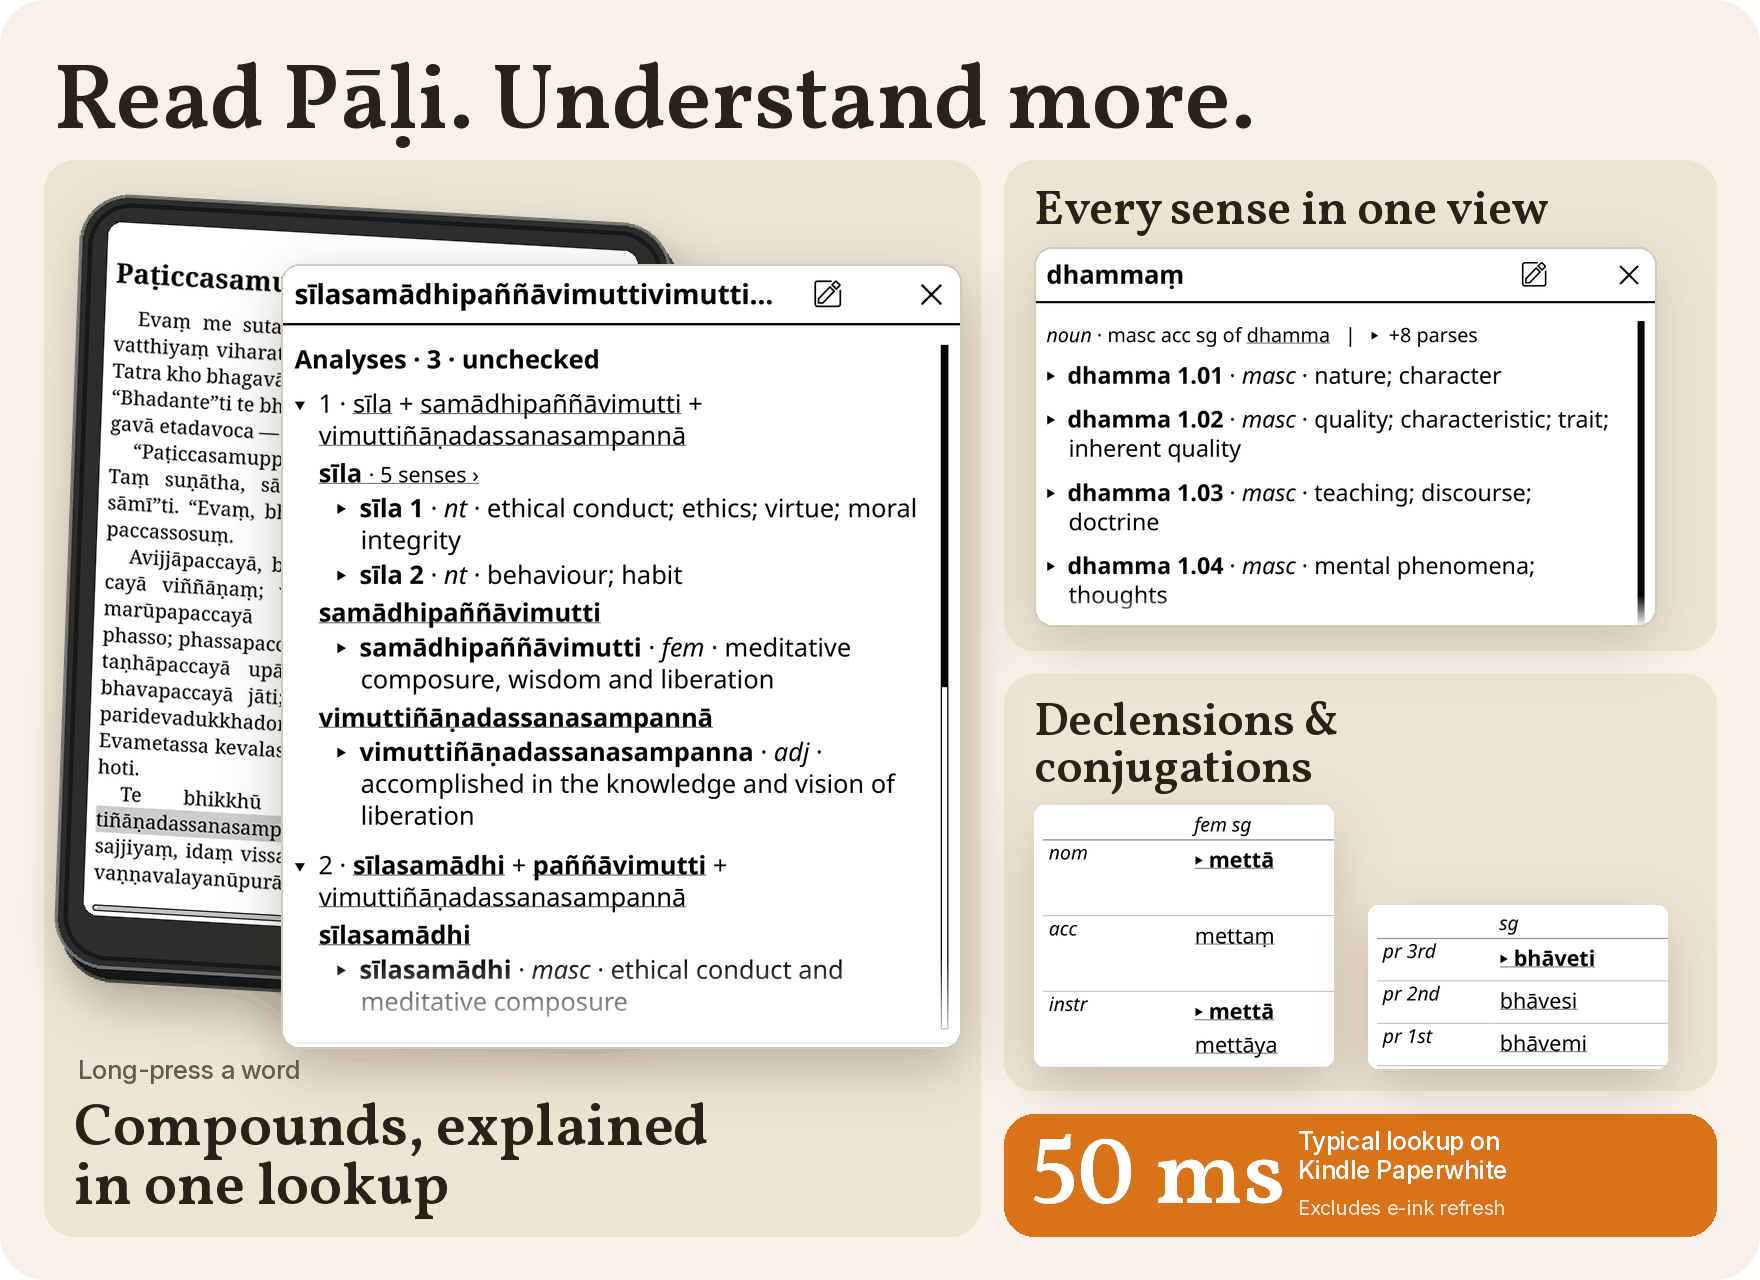
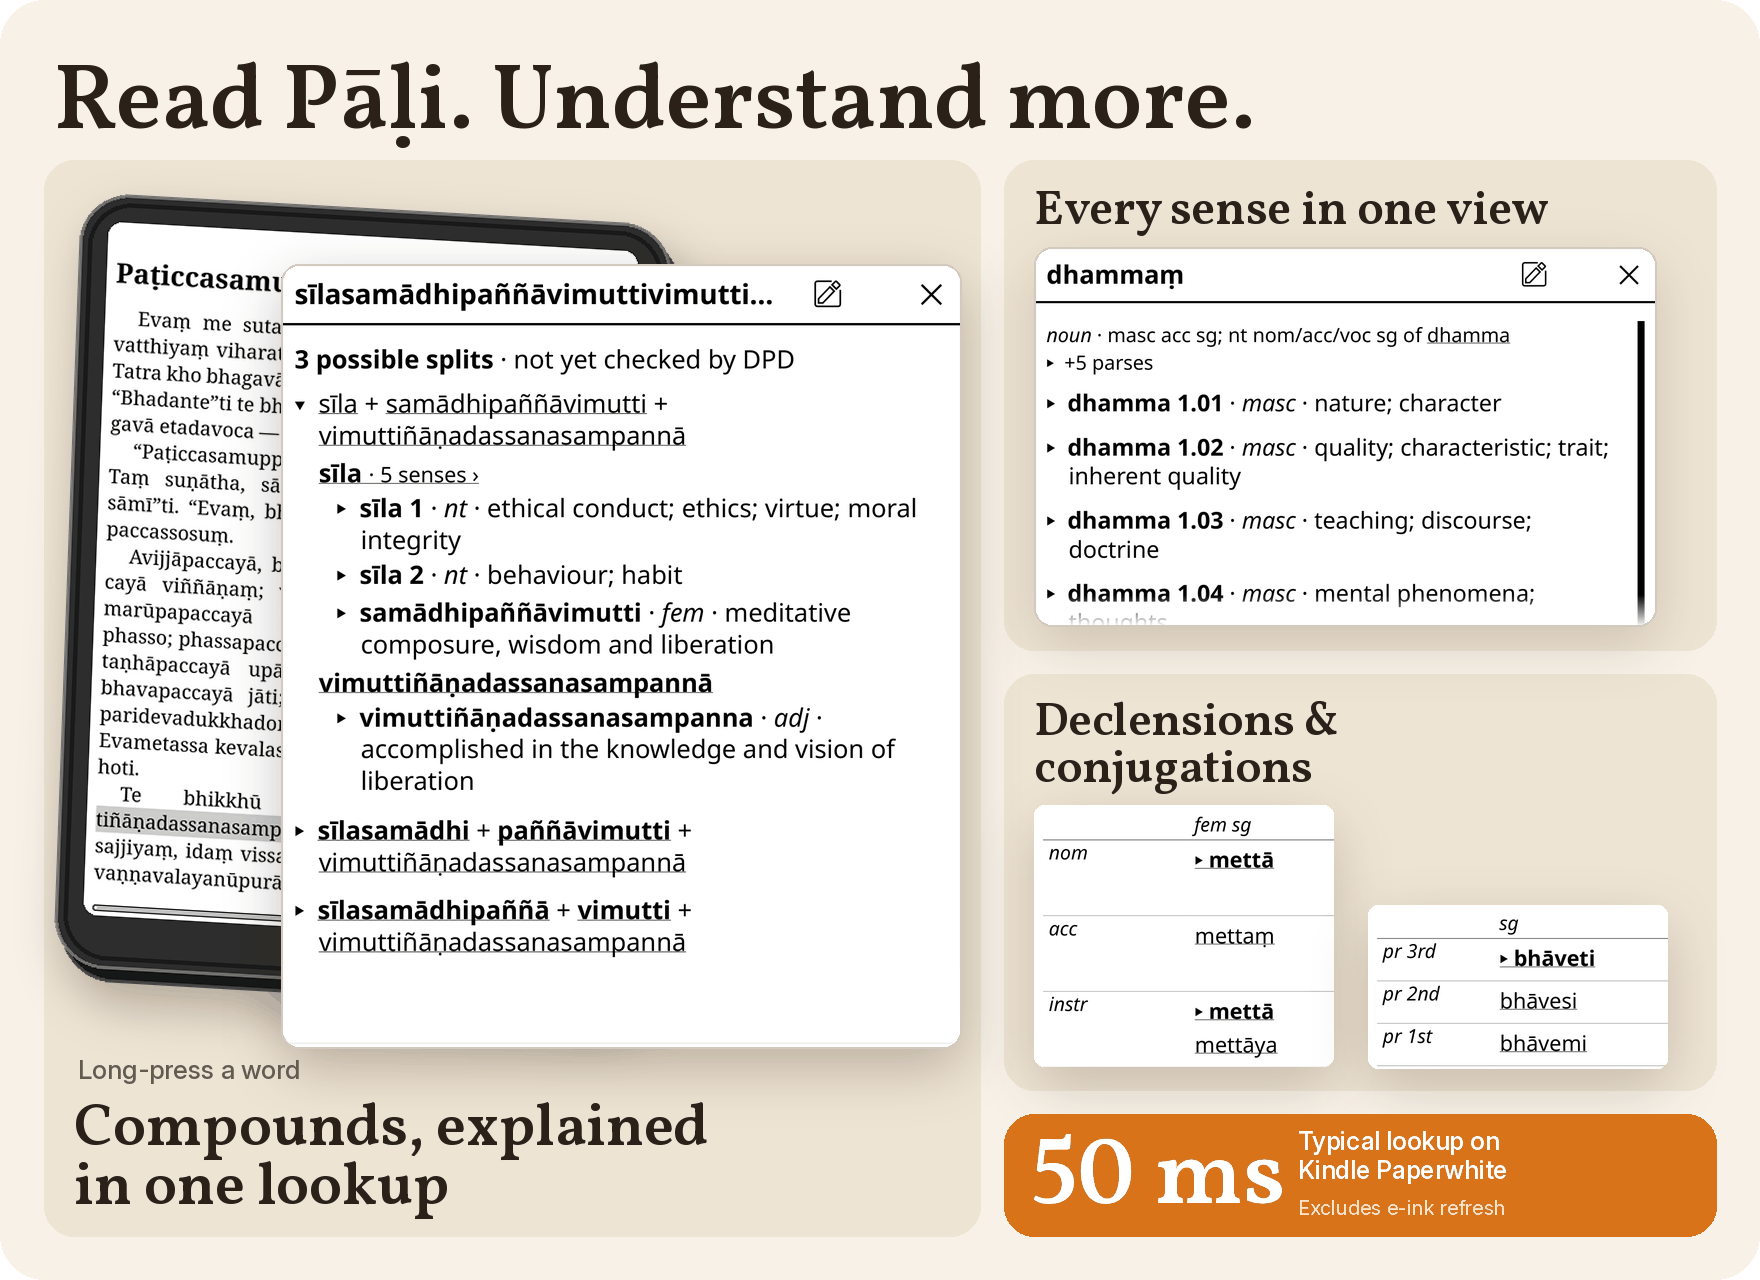
docs: koreader page for plugin 0.3.1
- installation: softer kindle note, database ready or newer release as the success check, link the readme install section
- keeping dpd up to date: split into plugin and database; the plugin gets the in-app updater, the weekly automatic check and the one-time manual update from 0.3.0
- docs/pics/koreader: all five light/dark pairs re-captured from 0.3.1, same names and sizes; menu caption shows database: ready

diff --git a/docs/install/koreader.md b/docs/install/koreader.md
@@ -4,7 +4,7 @@ Read Pāḷi with DPD right inside [KOReader](https://koreader.rocks){target="_b
 
 Long-press any Pāḷi word while you are reading, and the DPD entry pops up on the page. All the meanings appear together, compounds are broken into their parts, and the grammar tables are a tap away. Close the popup and you are back on your page, exactly where you left off.
 
-The plugin is made by [Ven. Nirodhavihārī](https://github.com/nirodhav){target="_blank"} and uses the full DPD mobile database, so it works offline, on the device. It is a free download from the [plugin's releases page](https://github.com/digitalpalidictionary/dpd-koreader/releases/latest){target="_blank"}.
+The plugin is made by [Ven. Nirodhavihāri](https://github.com/nirodhav){target="_blank"} and uses the full DPD mobile database, so it works offline, on the device. It is a free download from the [plugin's releases page](https://github.com/digitalpalidictionary/dpd-koreader/releases/latest){target="_blank"}.
 
 ![DPD for KOReader: compounds explained in one lookup, every sense in one view, declensions and conjugations](../pics/koreader/hero_light.png#only-light)
 ![DPD for KOReader: compounds explained in one lookup, every sense in one view, declensions and conjugations](../pics/koreader/hero_dark.png#only-dark)
@@ -29,15 +29,23 @@ And here are the senses of *dhammaṃ*, with one expanded in place:
 
 ## Installation
 
-You will need KOReader v2026.07 or newer (on a Kindle this means a jailbroken device) and about 1.1 GB of free space.
+You will need KOReader v2026.07 or newer (on a Kindle, this takes some technical setup) and about 1.1 GB of free space.
 
 1. Download the plugin zip from the [releases page](https://github.com/digitalpalidictionary/dpd-koreader/releases/latest){target="_blank"} and extract it into `koreader/plugins/` on the device.
 2. Download `dpd-mobile-db.zip` from the [latest DPD release](https://github.com/digitalpalidictionary/dpd-db/releases/latest){target="_blank"} and copy the `dpd-mobile.db` inside it to `koreader/data/dpd/`.
-3. Restart KOReader. **Database status** in the DPD menu should say **Core columns: OK**.
+3. Restart KOReader. **Database status** in the DPD menu should say **Database ready**, or **Newer release, should work** for a newer database.
 
-Full instructions are in the plugin's [usage guide](https://github.com/digitalpalidictionary/dpd-koreader/blob/main/docs/USAGE.md){target="_blank"}, which is also included in the download.
+Full instructions are in the plugin's [README](https://github.com/digitalpalidictionary/dpd-koreader#install){target="_blank"}, which is also included in the download.
 
 ## Keeping DPD Up to Date
+
+### The Plugin
+
+Open **Help → Check for updates** in the DPD menu, choose **Install** and restart KOReader. Your settings are kept. Optional automatic checks (**Help → Check for updates automatically**) run about once a week, only when Wi-Fi is already on. They notify you of updates but don't install them automatically.
+
+Versions 0.3.0 and earlier need one manual update first: exit KOReader, replace `koreader/plugins/dpd.koplugin` with the folder from the [new zip](https://github.com/digitalpalidictionary/dpd-koreader/releases/latest){target="_blank"} and restart.
+
+### The Database
 
 DPD has a new release every month, on the Uposatha day. To update:
 
@@ -47,11 +55,11 @@ DPD has a new release every month, on the Uposatha day. To update:
 
 The DPD menu lives under **Search → Digital Pāḷi Dictionary**:
 
-![the DPD menu in KOReader](../pics/koreader/database_status_menu_light.png#only-light){width="400"}
-![the DPD menu in KOReader](../pics/koreader/database_status_menu_dark.png#only-dark){width="400"}
+![the DPD menu, showing Database: ready](../pics/koreader/database_status_menu_light.png#only-light){width="400"}
+![the DPD menu, showing Database: ready](../pics/koreader/database_status_menu_dark.png#only-dark){width="400"}
 
-![database status: core columns OK](../pics/koreader/database_status_light.png#only-light){width="400"}
-![database status: core columns OK](../pics/koreader/database_status_dark.png#only-dark){width="400"}
+![Database status: Database ready](../pics/koreader/database_status_light.png#only-light){width="400"}
+![Database status: Database ready](../pics/koreader/database_status_dark.png#only-dark){width="400"}
 
 ## Bugs and Feedback
 
